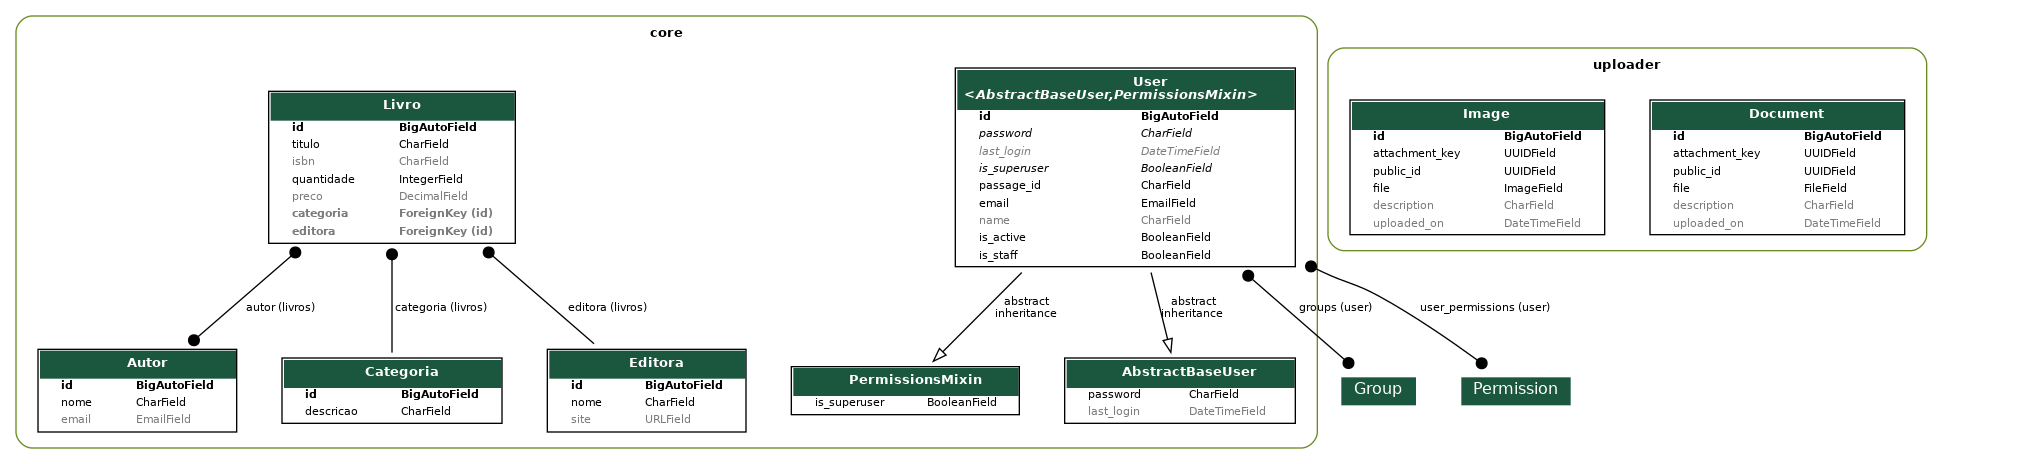
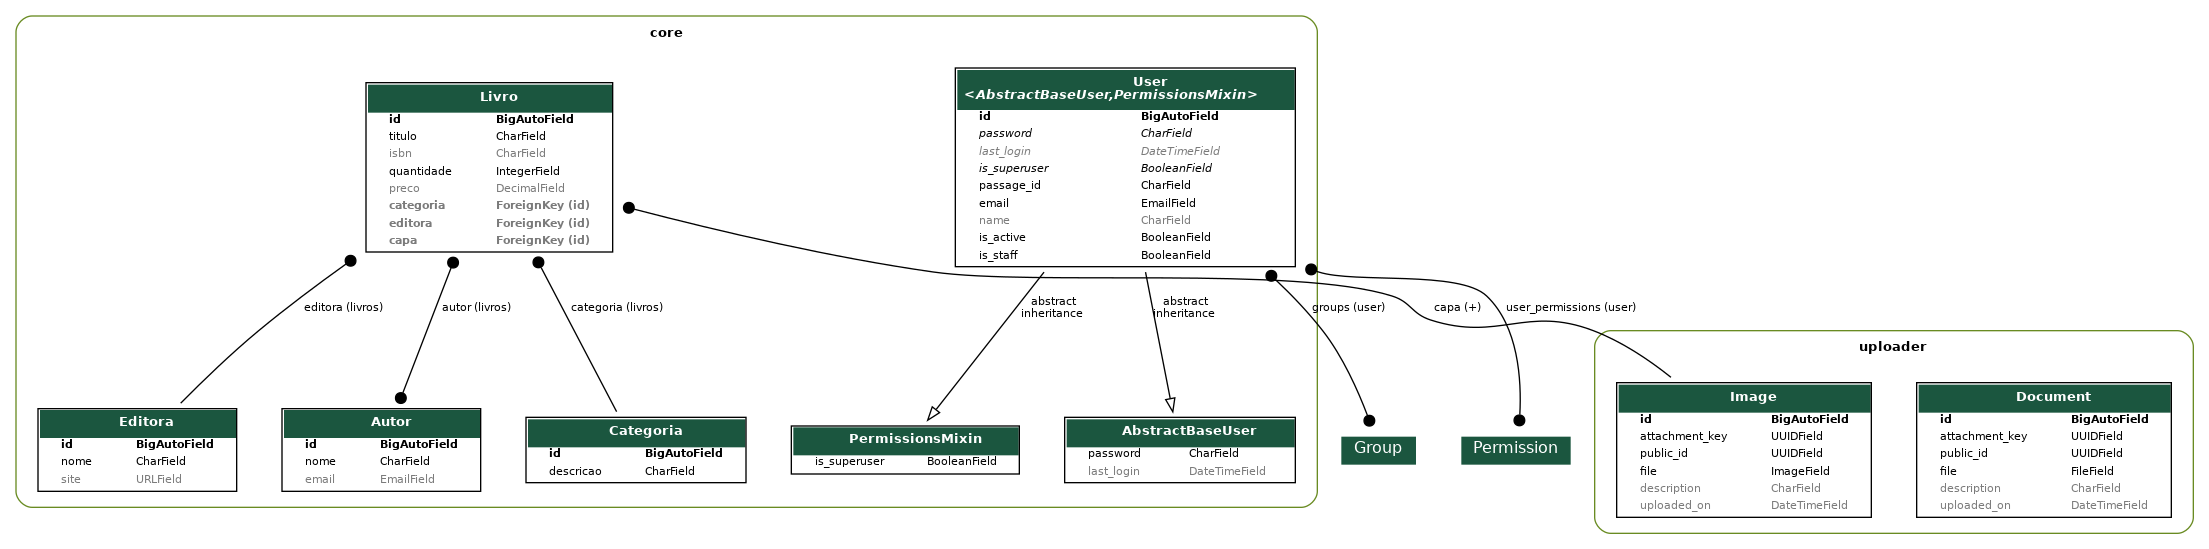
feat: inclusão de associação de imagens.

diff --git a/core/serializers/livro.py b/core/serializers/livro.py
@@ -1,22 +1,35 @@
-from rest_framework.serializers import ModelSerializer
+from rest_framework.serializers import ModelSerializer, SlugRelatedField
 
 from core.models import Livro
+from uploader.models import Image
+from uploader.serializers import ImageSerializer
 
 
 class LivroListSerializer(ModelSerializer):
     class Meta:
         model = Livro
-        fields = ("id", "titulo", "preco")
+        fields = ('id', 'titulo', 'preco')
 
 
 class LivroRetrieveSerializer(ModelSerializer):
+    capa = ImageSerializer(required=False)
+
     class Meta:
         model = Livro
-        fields = "__all__"
+        fields = '__all__'
         depth = 1
 
 
 class LivroSerializer(ModelSerializer):
+    capa_attachment_key = SlugRelatedField(
+        source='capa',
+        queryset=Image.objects.all(),
+        slug_field='attachment_key',
+        required=False,
+        write_only=True,
+    )
+    capa = ImageSerializer(required=False, read_only=True)
+
     class Meta:
         model = Livro
         fields = '__all__'

diff --git a/core/models/livro.py b/core/models/livro.py
@@ -1,5 +1,7 @@
 from django.db import models
 
+from uploader.models import Image
+
 from .autor import Autor
 from .categoria import Categoria
 from .editora import Editora
@@ -17,7 +19,15 @@ class Livro(models.Model):
         Editora, on_delete=models.PROTECT, related_name="livros", null=True, blank=True
     )
     autor = models.ManyToManyField(
-        Autor, related_name="livros", blank=True 
+        Autor, related_name="livros", blank=True
+    )
+    capa = models.ForeignKey(
+        Image,
+        related_name="+",
+        on_delete=models.SET_NULL,
+        null=True,
+        blank=True,
+        default=None,
     )
 
     def __str__(self):

diff --git a/core/migrations/0014_livro_capa.py b/core/migrations/0014_livro_capa.py
@@ -1,0 +1,20 @@
+# Generated by Django 5.2.1 on 2025-05-27 11:10
+
+import django.db.models.deletion
+from django.db import migrations, models
+
+
+class Migration(migrations.Migration):
+
+    dependencies = [
+        ('core', '0013_remove_livro_autor_livro_autor'),
+        ('uploader', '0001_initial'),
+    ]
+
+    operations = [
+        migrations.AddField(
+            model_name='livro',
+            name='capa',
+            field=models.ForeignKey(blank=True, default=None, null=True, on_delete=django.db.models.deletion.SET_NULL, related_name='+', to='uploader.image'),
+        ),
+    ]

diff --git a/app/urls.py b/app/urls.py
@@ -34,10 +34,9 @@ urlpatterns = [
         SpectacularRedocView.as_view(url_name='schema'),
         name='redoc',
     ),
-    path(
-        "api/media/", include(uploader_router.urls)
-        ), 
+    path('api/media/', include(uploader_router.urls)),
     # API
     path('api/', include(router.urls)),
 ]
+
 urlpatterns += static(settings.MEDIA_ENDPOINT, document_root=settings.MEDIA_ROOT)
